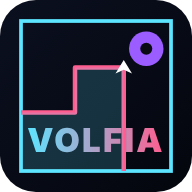
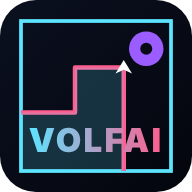
Oyunun adı VOLFIA'dan VOLFAI'ye değiştirildi
Logo, başlık, bölüm adları, manifest, service worker önbellek anahtarı,
localStorage anahtarı, ikonlar ve belgeler güncellendi.

Claude-Session: https://claude.ai/code/session_016EDkwTByfcsteyqkBCqFfk

Changed region(s): [[0.125, 0.6562, 0.5938, 0.8125], [0.625, 0.6562, 0.8438, 0.8125], [0.625, 0.7812, 0.6562, 0.8125]]

diff --git a/js/levels.js b/js/levels.js
@@ -1,4 +1,4 @@
-// VOLFIA - 16 bölüm tanımı ve her bölüm için prosedürel "gezegen" sanatı
+// VOLFAI - 16 bölüm tanımı ve her bölüm için prosedürel "gezegen" sanatı
 // Volfied'de her bölümün kendine özgü arka planı vardır; alan kapattıkça ortaya çıkar.
 
 export function mulberry32(seed) {
@@ -14,7 +14,7 @@ export function mulberry32(seed) {
 
 // Her bölüm: isim, boss tipi, renkler, zorluk parametreleri
 export const LEVELS = [
-  { name: 'VOLFIA YÖRÜNGESİ', boss: 'amoeba',  bossR: 4.5, bossSpeed: 14, smalls: 2, smallSpeed: 10, shoot: 0,    time: 150, blocks: 2, hue: 200, art: 'planet' },
+  { name: 'VOLFAI YÖRÜNGESİ', boss: 'amoeba',  bossR: 4.5, bossSpeed: 14, smalls: 2, smallSpeed: 10, shoot: 0,    time: 150, blocks: 2, hue: 200, art: 'planet' },
   { name: 'KIZIL ÇÖL',        boss: 'amoeba',  bossR: 4.5, bossSpeed: 16, smalls: 3, smallSpeed: 12, shoot: 0,    time: 140, blocks: 2, hue: 15,  art: 'desert' },
   { name: 'BUZ KUŞAĞI',       boss: 'crystal', bossR: 5,   bossSpeed: 17, smalls: 3, smallSpeed: 13, shoot: 0,    time: 140, blocks: 3, hue: 190, art: 'ice' },
   { name: 'NEBULA GEÇİDİ',    boss: 'crystal', bossR: 5,   bossSpeed: 18, smalls: 4, smallSpeed: 14, shoot: 0.15, time: 130, blocks: 3, hue: 280, art: 'nebula' },
@@ -29,7 +29,7 @@ export const LEVELS = [
   { name: 'ÇİFT GÜNEŞ',       boss: 'amoeba',  bossR: 7,   bossSpeed: 28, smalls: 8, smallSpeed: 23, shoot: 0.55, time: 105, blocks: 5, hue: 50,  art: 'twinsun' },
   { name: 'KARA DELİK',       boss: 'crystal', bossR: 7,   bossSpeed: 30, smalls: 9, smallSpeed: 24, shoot: 0.6,  time: 105, blocks: 5, hue: 270, art: 'blackhole' },
   { name: 'ANA GEMİ',         boss: 'spiker',  bossR: 7.5, bossSpeed: 31, smalls: 9, smallSpeed: 25, shoot: 0.7,  time: 100, blocks: 5, hue: 0,   art: 'mothership' },
-  { name: 'VOLFIA: EVE DÖNÜŞ', boss: 'amoeba', bossR: 8,   bossSpeed: 33, smalls: 10, smallSpeed: 26, shoot: 0.8, time: 100, blocks: 6, hue: 205, art: 'home' },
+  { name: 'VOLFAI: EVE DÖNÜŞ', boss: 'amoeba', bossR: 8,   bossSpeed: 33, smalls: 10, smallSpeed: 26, shoot: 0.8, time: 100, blocks: 6, hue: 205, art: 'home' },
 ];
 
 export function levelDef(n) {

diff --git a/index.html b/index.html
@@ -7,9 +7,9 @@
   <meta name="mobile-web-app-capable" content="yes">
   <meta name="apple-mobile-web-app-capable" content="yes">
   <meta name="apple-mobile-web-app-status-bar-style" content="black-translucent">
-  <meta name="apple-mobile-web-app-title" content="VOLFIA">
-  <meta name="description" content="VOLFIA - Volfied'in dokunmatik yeniden yapımı. Alanı ele geçir, uzaylıları kuşat!">
-  <title>VOLFIA</title>
+  <meta name="apple-mobile-web-app-title" content="VOLFAI">
+  <meta name="description" content="VOLFAI - Volfied'in dokunmatik yeniden yapımı. Alanı ele geçir, uzaylıları kuşat!">
+  <title>VOLFAI</title>
   <link rel="manifest" href="manifest.webmanifest">
   <link rel="icon" href="icons/icon.svg" type="image/svg+xml">
   <link rel="apple-touch-icon" href="icons/icon-192.png">
@@ -47,7 +47,7 @@
 
   <!-- Ekranlar -->
   <div id="screen-title" class="screen">
-    <div class="logo">VOLFIA</div>
+    <div class="logo">VOLFAI</div>
     <div class="tag">Volfied'in dokunmatik yeniden doğuşu</div>
     <div class="hi">REKOR <span id="title-hi">0</span></div>
     <button id="btn-start" class="big-btn">DOKUN VE BAŞLA</button>
@@ -67,7 +67,7 @@
 
   <div id="screen-intro" class="screen hidden">
     <div class="lvl-no">BÖLÜM <span id="intro-no">1</span></div>
-    <div class="lvl-name" id="intro-name">VOLFIA YÖRÜNGESİ</div>
+    <div class="lvl-name" id="intro-name">VOLFAI YÖRÜNGESİ</div>
     <div class="lvl-sub">HAZIR OL</div>
   </div>
 

diff --git a/js/main.js b/js/main.js
@@ -1,4 +1,4 @@
-// VOLFIA - giriş noktası: döngü, HUD, ekranlar
+// VOLFAI - giriş noktası: döngü, HUD, ekranlar
 import { Game, STATE } from './game.js';
 import { Renderer } from './render.js';
 import { Input } from './input.js';
@@ -11,7 +11,7 @@ const sfx = new Sfx();
 const game = new Game(sfx, storage);
 const renderer = new Renderer($('game'), $('stick'));
 const input = new Input(document.body, $('btn-fire'));
-window.__volfia = { game, input, renderer }; // hata ayıklama / otomatik test
+window.__volfai = { game, input, renderer }; // hata ayıklama / otomatik test
 
 const screens = { title: $('screen-title'), intro: $('screen-intro'), clear: $('screen-clear'), pause: $('screen-pause'), over: $('screen-over') };
 function showScreen(name) { for (const k in screens) screens[k].classList.toggle('hidden', k !== name); }

diff --git a/sw.js b/sw.js
@@ -1,5 +1,5 @@
-// VOLFIA service worker - çevrimdışı oynanabilsin
-const CACHE = 'volfia-v1';
+// VOLFAI service worker - çevrimdışı oynanabilsin
+const CACHE = 'volfai-v1';
 const ASSETS = ['./', './index.html', './css/style.css', './manifest.webmanifest',
   './js/main.js', './js/game.js', './js/grid.js', './js/render.js', './js/input.js', './js/audio.js', './js/levels.js', './js/config.js', './js/storage.js',
   './icons/icon.svg', './icons/icon-192.png', './icons/icon-512.png'];

diff --git a/js/storage.js b/js/storage.js
@@ -1,5 +1,5 @@
-// VOLFIA - yerel kayıt (yüksek skor, ayarlar)
-const KEY = 'volfia.v1';
+// VOLFAI - yerel kayıt (yüksek skor, ayarlar)
+const KEY = 'volfai.v1';
 function load() { try { return JSON.parse(localStorage.getItem(KEY)) || {}; } catch (e) { return {}; } }
 function save(d) { try { localStorage.setItem(KEY, JSON.stringify(d)); } catch (e) { /* özel mod */ } }
 export const storage = {

diff --git a/js/input.js b/js/input.js
@@ -1,4 +1,4 @@
-// VOLFIA - dokunmatik "yüzen joystick" + klavye
+// VOLFAI - dokunmatik "yüzen joystick" + klavye
 // Parmağı ekranın herhangi bir yerine koy, sürükle: baskın eksen yönü belirler.
 // Çapa parmağı takip eder (floating stick) → yön değişimi anında hissedilir.
 export const DIR = { NONE: 0, UP: 1, DOWN: 2, LEFT: 3, RIGHT: 4 };

diff --git a/js/game.js b/js/game.js
@@ -1,4 +1,4 @@
-// VOLFIA - oyun durumu ve güncelleme mantığı
+// VOLFAI - oyun durumu ve güncelleme mantığı
 import { GRID_W, GRID_H, CELL, CLEAR_PERCENT, BASE_PLAYER_SPEED, SPEED_BOOST_MULT, FUSE_SPEED_RATIO, LIVES_START, POWERUPS, SCORE } from './config.js';
 import { Grid } from './grid.js';
 import { levelDef, mulberry32 } from './levels.js';

diff --git a/js/audio.js b/js/audio.js
@@ -1,4 +1,4 @@
-// VOLFIA - WebAudio ile sentezlenmiş retro sesler (harici dosya yok)
+// VOLFAI - WebAudio ile sentezlenmiş retro sesler (harici dosya yok)
 export class Sfx {
   constructor() { this.ctx = null; this.muted = false; this.master = null; }
   init() {

diff --git a/js/grid.js b/js/grid.js
@@ -1,4 +1,4 @@
-// VOLFIA - ızgara ve alan ele geçirme mantığı (saf, DOM bağımsız)
+// VOLFAI - ızgara ve alan ele geçirme mantığı (saf, DOM bağımsız)
 import { GRID_W, GRID_H, CELL } from './config.js';
 
 export class Grid {

diff --git a/js/render.js b/js/render.js
@@ -1,4 +1,4 @@
-// VOLFIA - çizim katmanı
+// VOLFAI - çizim katmanı
 import { GRID_W, GRID_H, CELL, POWERUPS } from './config.js';
 import { drawLevelArt } from './levels.js';
 import { DIR_VEC } from './input.js';

diff --git a/js/config.js b/js/config.js
@@ -1,4 +1,4 @@
-// VOLFIA - oyun sabitleri
+// VOLFAI - oyun sabitleri
 export const GRID_W = 80;      // hücre (yatay)
 export const GRID_H = 120;     // hücre (dikey)
 

diff --git a/docs/ARASTIRMA.md b/docs/ARASTIRMA.md
@@ -1,6 +1,6 @@
 # Volfied Araştırma Notları
 
-VOLFIA, Taito'nun 1989 tarihli arcade oyunu **Volfied**'in (Qix'in devamı) mobil / dokunmatik
+VOLFAI, Taito'nun 1989 tarihli arcade oyunu **Volfied**'in (Qix'in devamı) mobil / dokunmatik
 yeniden yapımıdır. Aşağıdaki notlar oyunun tasarımına temel olan kaynak bilgilerdir.
 
 ## Orijinal oyun (Volfied, Taito 1989)
@@ -29,9 +29,9 @@ yeniden yapımıdır. Aşağıdaki notlar oyunun tasarımına temel olan kaynak 
 - Portlar: PC Engine, Mega Drive (Ultimate Qix), Amiga, Atari ST, **MS-DOS (Empire Interactive)**,
   FM Towns, PlayStation (Qix Neo), Taito Legends, Arcade Archives (2024).
 
-## VOLFIA'da modernleştirme kararları
+## VOLFAI'da modernleştirme kararları
 
-| Orijinal | VOLFIA |
+| Orijinal | VOLFAI |
 |---|---|
 | Joystick + "çiz" düğmesi | Yüzen sanal joystick: parmağını herhangi bir yere koy, sürükle. Boş alana girince otomatik çizilir. |
 | Yön tuşlarıyla köşe dönme | Joystick'in ikinci ekseni "köşe yardımı" olarak kullanılır. |
